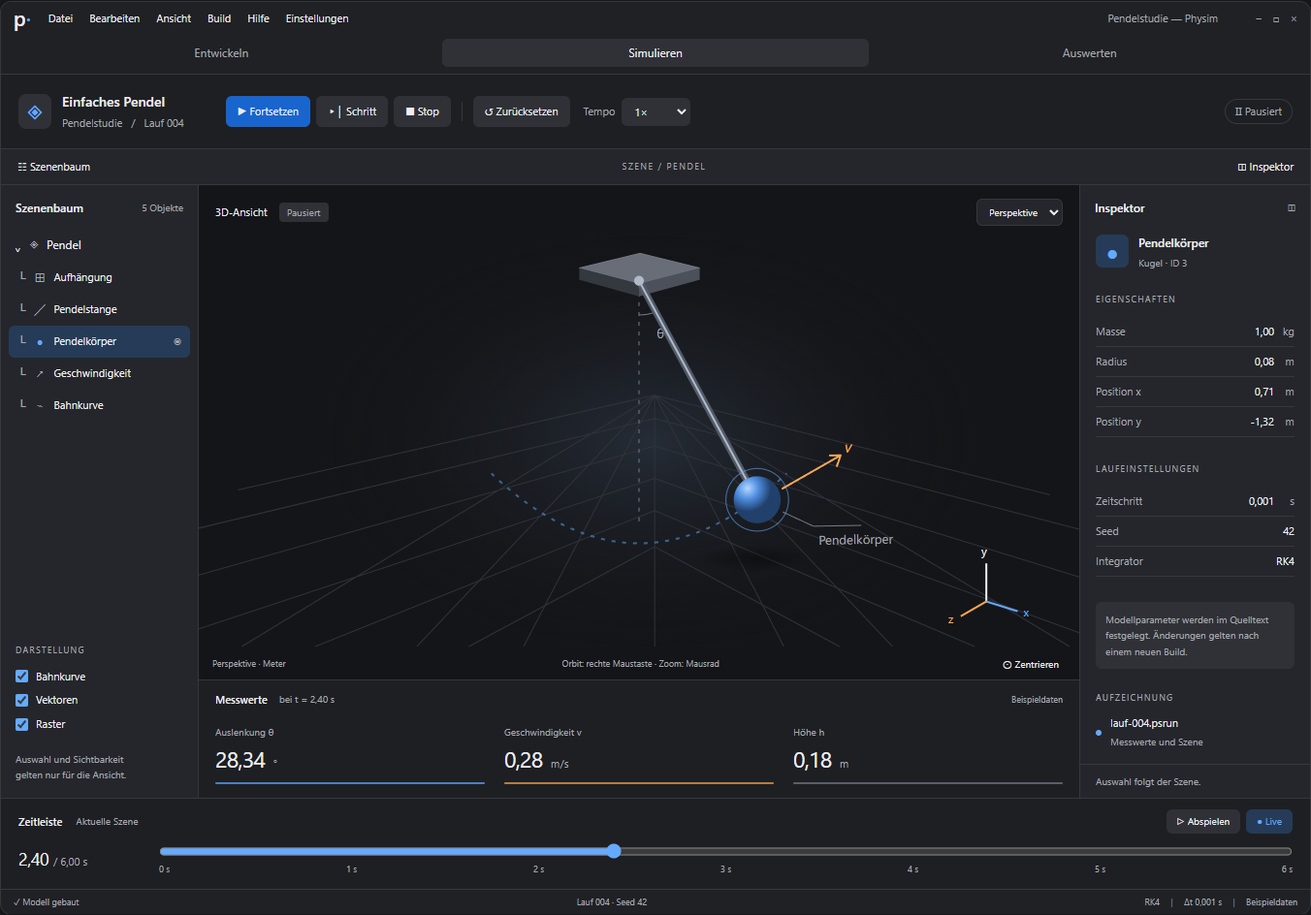
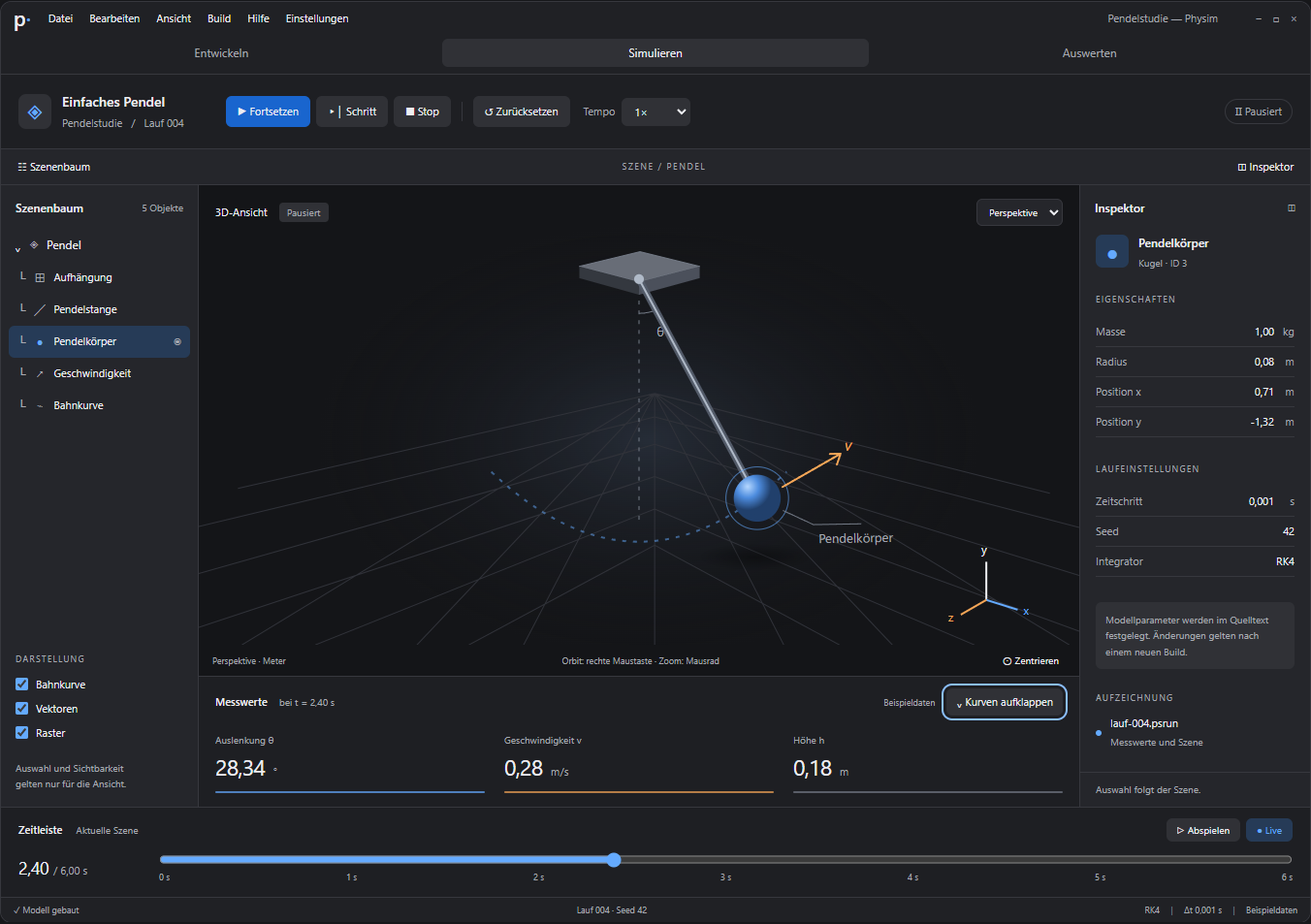
Make simulation design curves collapsible

diff --git a/docs/visuals/simulation-designs/simulation.css b/docs/visuals/simulation-designs/simulation.css
@@ -3,6 +3,11 @@
 :root[data-theme=light]{color-scheme:light;--page:#eef0f4;--window:#f6f7fa;--header:#f2f3f6;--panel:#f3f4f7;--surface:#e5e8ee;--canvas:#e8ebf1;--text:#191e26;--muted:#4e5764;--border:#c4cad4;--accent:#0049a3;--primary:#004ea4;--on-primary:#fff;--selected:#d5e3f5;--grid:#c8cfd9;--axis:#6b7788;--scene-light:#fff;--ball:#3474ca;--ball-highlight:#b1d9ff;--ball-shadow:#1a3e70;--rod:#526071;--rod-highlight:#fff;--support-top:#b0b9c7;--support-side:#707e90;--support-front:#8a97a9;--vector:#914800;--shadow:#586881;--error:#a01b19;--focus:#0049a3}
 *{box-sizing:border-box}body{margin:0;background:var(--page);color:var(--text);font:14px/1.45 "Segoe UI",system-ui,sans-serif}button,select,input{font:inherit}button,select{color:var(--text);background:var(--surface);border:1px solid transparent;border-radius:6px}button{cursor:pointer;padding:7px 11px}button:hover{background:var(--selected)}button:disabled,select:disabled{opacity:.45;cursor:default}button:focus-visible,select:focus-visible,input:focus-visible{outline:2px solid var(--focus);outline-offset:3px}button[aria-pressed=true]{background:var(--selected)}select{padding:5px 8px;max-width:100%}input{accent-color:var(--accent)}[hidden]{display:none!important}main{max-width:1560px;margin:0 auto;padding:44px 44px 28px}.gallery-head{display:flex;justify-content:space-between;align-items:center;gap:28px;margin-bottom:30px}.eyebrow{color:var(--muted);font-size:11px;letter-spacing:2px}h1{font-size:34px;line-height:1.2;font-weight:500;letter-spacing:-1px;margin:10px 0}.gallery-head p{margin:0;color:var(--muted);font-size:15px}.gallery-settings{display:flex;align-items:flex-end;flex-direction:column;gap:14px}.study-label{font-size:12px;color:var(--muted)}.segmented{display:flex;background:var(--window);padding:4px;border:1px solid var(--border);border-radius:8px}.segmented button{background:transparent;padding:5px 15px;font-size:12px}.segmented button[aria-pressed=true]{background:var(--surface)}.variants{display:grid;grid-template-columns:repeat(3,1fr);gap:12px;margin-bottom:26px}.variants>button{border:1px solid var(--border);background:var(--window);display:flex;text-align:left;align-items:center;gap:15px;padding:17px 18px;border-radius:10px;position:relative}.variants>button[aria-pressed=true]{background:var(--selected);border-color:var(--accent)}.variant-number{font-size:13px;color:var(--muted);align-self:flex-start;margin-top:1px}.variants strong{display:block;font-size:16px;font-weight:500}.variants small{display:block;color:var(--muted);font-size:11px;margin-top:5px}.variant-tag{margin-left:auto;font-size:10px;white-space:nowrap;color:var(--muted);display:none}.preview-meta{display:flex;justify-content:space-between;align-items:center;margin-bottom:12px;font-size:12px;color:var(--muted);gap:12px}.preview-meta b{font-weight:500;color:var(--text);margin-right:18px}.preview-meta label{display:flex;align-items:center;gap:10px}.preview-meta select{font-size:12px;background:var(--window);border-color:var(--border)}.app-window{border:1px solid var(--border);border-radius:12px;overflow:hidden;background:var(--window);box-shadow:0 16px 60px #0002}.menu-bar{display:flex;align-items:center;gap:18px;min-height:34px;background:var(--header);padding:0 13px;font-size:11px;position:relative}.app-mark{font-weight:600;font-size:21px;line-height:1}.app-mark>span{color:var(--accent)}.app-menu{display:flex;gap:17px;flex-wrap:wrap}.window-title{margin-left:auto;color:var(--muted);font-size:11px}.window-buttons{margin-left:20px;color:var(--muted)}.workspace-tabs{display:grid;grid-template-columns:repeat(3,1fr);background:var(--header);border-bottom:1px solid var(--border);padding:4px 7px 7px;gap:7px;font-size:12px;text-align:center}.workspace-tabs>span{padding:6px;border-radius:6px;color:var(--muted)}.workspace-tabs .selected{background:var(--surface);color:var(--text)}.experiment-bar{min-height:77px;padding:14px 18px;display:flex;align-items:center;gap:24px;border-bottom:1px solid var(--border);flex-wrap:wrap}.experiment-name{display:flex;align-items:center;gap:11px;min-width:190px}.experiment-icon{width:34px;height:36px;background:var(--surface);border-radius:8px;display:grid;place-items:center;font-size:22px;color:var(--accent)}.experiment-name strong{font-weight:500;font-size:14px}.experiment-name small{display:block;font-size:11px;color:var(--muted);margin-top:3px}.experiment-name small span{padding:0 6px}.transport{display:flex;align-items:center;gap:6px;flex-wrap:wrap}.transport button{font-size:11px;min-height:31px;white-space:nowrap}.primary{background:var(--primary)!important;color:var(--on-primary)!important}.primary:hover{filter:brightness(1.12)}.toolbar-divider{height:20px;width:1px;background:var(--border);margin:0 5px}.speed-label{display:flex;gap:7px;align-items:center;color:var(--muted);font-size:11px;margin-left:8px}.speed-label select{font-size:11px;min-width:60px}.run-status{font-size:11px;margin-left:auto;color:var(--muted);white-space:nowrap;border:1px solid var(--border);border-radius:20px;padding:4px 10px}.panel-toolbar{display:flex;justify-content:space-between;align-items:center;min-height:37px;border-bottom:1px solid var(--border);padding:3px 9px;background:var(--panel)}.panel-toolbar button{font-size:11px;background:transparent;padding:4px 7px}.context-label{font-size:9px;letter-spacing:1.5px;color:var(--muted)}.workspace{display:grid;grid-template-columns:204px minmax(0,1fr) 238px;min-height:475px}.scene-tree{grid-column:1;grid-row:1;background:var(--panel);border-right:1px solid var(--border);display:flex;flex-direction:column;min-width:0}.pane-heading{display:flex;align-items:center;justify-content:space-between;font-size:12px;font-weight:500;padding:15px 15px 13px}.pane-heading>span{color:var(--muted);font-size:10px;font-weight:400}.tree-items{padding:0 8px}.tree-root{display:flex;gap:8px;align-items:center;padding:8px 6px;font-size:12px}.tree-root>span{color:var(--muted)}.tree-row{font-size:11px;background:transparent;display:flex;gap:8px;align-items:center;text-align:left;min-height:33px;width:100%;padding:6px 8px}.tree-row>span:first-child{color:var(--muted);font-size:12px}.tree-row.active{background:var(--selected)}.object-icon{width:13px;text-align:center;color:var(--muted)}.tree-row.active .object-icon{color:var(--accent)}.tree-visible{margin-left:auto;font-size:10px;color:var(--muted)}.tree-bottom{margin-top:auto;padding:22px 15px 16px}.section-label{color:var(--muted);font-size:9px;letter-spacing:1.2px;margin-bottom:12px}.tree-bottom label{display:flex;gap:8px;align-items:center;font-size:11px;margin:9px 0}.tree-bottom input{margin:0;width:13px;height:13px}.tree-note{color:var(--muted);font-size:10px;line-height:1.6;margin-top:20px}.scene-column{grid-column:2;grid-row:1;min-width:0;display:flex;flex-direction:column}.scene{position:relative;background:var(--canvas);min-height:365px;flex:1;overflow:hidden;display:flex;flex-direction:column}.scene-top{display:flex;justify-content:space-between;align-items:center;padding:14px 17px;position:absolute;left:0;right:0;top:0;z-index:1}.scene-top>div{display:flex;gap:12px;align-items:center}.scene-label{font-size:11px}.scene-state{font-size:10px;color:var(--muted);padding:3px 8px;border-radius:4px;background:var(--surface)}.scene-top select{font-size:10px;background:var(--panel);border:1px solid var(--border)}.physics-scene{display:block;width:100%;height:100%;min-height:320px;flex:1;max-height:480px}.svg-annotation{font-size:13px;fill:var(--muted);font-family:inherit}.svg-vector{font-size:16px;fill:var(--vector);font-style:italic}.axis-label{font-size:12px;font-family:inherit}.scene-bottom{display:flex;gap:14px;align-items:center;justify-content:space-between;min-height:32px;padding:4px 14px;color:var(--muted);font-size:9px}.scene-bottom button{font-size:10px;padding:3px 6px;background:transparent}.scene-hint{font-size:9px}.focus-note{display:none;position:absolute;top:80px;left:27px;z-index:1}.focus-note .section-label{margin-bottom:6px}.focus-note strong{font-weight:500;display:block;font-size:16px}.focus-note>span{display:block;font-size:11px;color:var(--muted);margin-top:5px}.inspector{grid-column:3;grid-row:1;background:var(--panel);border-left:1px solid var(--border);display:flex;flex-direction:column;min-width:0}.inspector-body{padding:4px 16px 15px}.object-heading{display:flex;align-items:center;gap:10px;margin-bottom:24px}.object-avatar{display:grid;place-items:center;width:34px;height:34px;border-radius:7px;background:var(--selected);color:var(--accent);font-size:21px}.object-heading strong{font-weight:500;font-size:12px}.object-heading small{display:block;color:var(--muted);font-size:10px;margin-top:3px}.properties{margin:0 0 26px;font-size:11px}.properties>div{display:flex;align-items:center;justify-content:space-between;padding:7px 0;border-bottom:1px solid var(--border);gap:10px}.properties dt{color:var(--muted)}.properties dd{margin:0;font-variant-numeric:tabular-nums}.properties dd span{color:var(--muted);display:inline-block;min-width:14px;text-align:right;margin-left:4px}.inspector-notice{font-size:10px;color:var(--muted);line-height:1.65;background:var(--surface);border-radius:6px;padding:10px}.recording-label{margin-top:23px}.recording{display:flex;gap:9px;align-items:center;font-size:11px}.recording strong{font-weight:400}.recording small{display:block;color:var(--muted);font-size:10px;margin-top:4px}.record-dot{width:6px;height:6px;background:var(--accent);border-radius:50%}.inspector-footer{margin-top:auto;font-size:10px;color:var(--muted);padding:10px 16px;border-top:1px solid var(--border)}.measurements{border-top:1px solid var(--border);padding:12px 17px 14px;background:var(--window)}.measure-heading{display:flex;gap:12px;align-items:center;font-size:10px;color:var(--muted);margin-bottom:14px}.measure-heading strong{color:var(--text);font-weight:500;font-size:11px}.sample-badge{margin-left:auto;font-size:9px}.metric-grid{display:grid;grid-template-columns:repeat(3,1fr);gap:20px}.metric-grid>div{min-width:0}.metric-grid>div>span{font-size:10px;color:var(--muted)}.metric-grid strong{font-size:23px;font-weight:400;display:block;margin-top:2px;letter-spacing:-.7px;font-variant-numeric:tabular-nums;white-space:nowrap}.metric-grid strong small{font-size:11px;color:var(--muted);letter-spacing:0;margin-left:3px}.metric-line{height:2px;margin-top:8px;border-radius:2px;opacity:.7}.blue{background:var(--accent)}.amber{background:var(--vector)}.neutral{background:var(--axis)}.charts{display:none;grid-template-columns:1fr 1fr;gap:26px;margin-top:22px}.chart{min-width:0}.chart-label{display:flex;justify-content:space-between;font-size:10px;margin-bottom:9px}.chart-label>span:last-child{color:var(--muted)}.chart svg{width:100%;display:block;overflow:visible}.chart-grid path{stroke:var(--border);fill:none}.chart-axis{fill:var(--muted);font:10px "Segoe UI",sans-serif}.curve{stroke:var(--accent);fill:none;stroke-width:2}.amber-curve{stroke:var(--vector)}.chart-cursor{stroke:var(--muted);stroke-width:1;stroke-dasharray:3 3}.timeline{border-top:1px solid var(--border);padding:11px 18px 14px;background:var(--window)}.timeline-heading{display:flex;align-items:center;gap:14px;font-size:10px}.timeline-heading strong{font-size:11px;font-weight:500}.history-label{color:var(--muted)}.timeline-controls{margin-left:auto;display:flex;gap:6px}.timeline-controls button{font-size:10px;padding:4px 10px;background:var(--surface)}.timeline-controls button[aria-pressed=true]{background:var(--selected);color:var(--accent)}.timeline-track{display:flex;gap:25px;align-items:center;margin-top:10px}.timeline output{min-width:120px;font-size:18px;letter-spacing:-.4px;font-variant-numeric:tabular-nums}.timeline output span{font-size:11px;color:var(--muted);letter-spacing:0}.time-slider{flex:1;min-width:0}.time-slider input{display:block;width:100%;height:17px;margin:0}.time-ticks{display:flex;justify-content:space-between;font-size:9px;color:var(--muted);margin-top:3px}.app-status{display:flex;justify-content:space-between;gap:12px;padding:6px 13px;background:var(--header);border-top:1px solid var(--border);font-size:9px;color:var(--muted);flex-wrap:wrap}.status-separator{padding:0 9px;color:var(--axis)}.design-note{display:flex;gap:18px;align-items:flex-start;margin-top:22px;padding-bottom:10px}.design-note>span:first-child{font-size:24px;color:var(--muted);font-weight:300}.design-note strong{font-size:14px;font-weight:500}.design-note p{color:var(--muted);font-size:12px;margin:6px 0 0;max-width:720px;line-height:1.7}.note-foot{margin-left:auto;font-size:10px;color:var(--muted);text-align:right;line-height:1.7;white-space:nowrap}.state-overlay{position:absolute;inset:0;z-index:3;background:var(--canvas);display:flex;align-items:center;justify-content:center;flex-direction:column;padding:24px;text-align:center}.empty-symbol{font-size:38px;color:var(--accent);margin-bottom:8px}.state-overlay h2{font-size:23px;font-weight:500;letter-spacing:-.5px;margin:6px 0}.state-overlay p{max-width:350px;color:var(--muted);font-size:12px;line-height:1.7;margin:8px 0 20px}.state-overlay.error .empty-symbol{color:var(--error)}.state-overlay button{font-size:12px}.app-window[data-design=labor] .workspace{grid-template-columns:178px minmax(0,1fr) 238px}.app-window[data-design=labor] .scene{min-height:270px}.app-window[data-design=labor] .physics-scene{min-height:250px;max-height:320px}.app-window[data-design=labor] .charts{display:grid}.app-window[data-design=labor] .measurements{padding-top:15px;padding-bottom:16px}.app-window[data-design=focus] .workspace{grid-template-columns:0 minmax(0,1fr) 0}.app-window[data-design=focus] .scene{min-height:465px}.app-window[data-design=focus] .physics-scene{min-height:440px;max-height:500px}.app-window[data-design=focus] .focus-note{display:block}.app-window[data-design=focus] .measurements{padding:12px 28px 16px}.app-window[data-design=focus] .metric-grid{max-width:650px;gap:55px}.app-window[data-design=focus] .metric-grid strong{font-size:25px}.app-window.tree-closed .workspace{grid-template-columns:0 minmax(0,1fr) 238px}.app-window.inspector-closed .workspace{grid-template-columns:204px minmax(0,1fr) 0}.app-window.tree-closed.inspector-closed .workspace{grid-template-columns:0 minmax(0,1fr) 0}.app-window[data-design=focus]:not(.tree-closed) .workspace{grid-template-columns:204px minmax(0,1fr) 0}.app-window[data-design=focus]:not(.inspector-closed) .workspace{grid-template-columns:0 minmax(0,1fr) 238px}.app-window[data-design=focus]:not(.tree-closed):not(.inspector-closed) .workspace{grid-template-columns:204px minmax(0,1fr) 238px}.app-window.tree-closed .scene-tree,.app-window.inspector-closed .inspector{display:none}.app-window[data-state=empty] .measurements,.app-window[data-state=error] .measurements{visibility:hidden}.app-window[data-state=empty] .scene-hint,.app-window[data-state=error] .scene-hint{visibility:hidden}
 .tree-row{overflow-wrap:anywhere;white-space:normal}.object-icon{flex-shrink:0}
+.app-window .charts:not([hidden]){display:grid}
+.measure-heading{flex-wrap:wrap}.measure-heading #curves-toggle{font-size:11px;padding:5px 9px;margin-left:auto;white-space:normal}.measure-heading .sample-badge{margin-left:auto}.measure-heading .sample-badge + #curves-toggle{margin-left:0}
+.app-window[data-design=studio].curves-open .scene{min-height:270px}.app-window[data-design=studio].curves-open .physics-scene{min-height:250px;max-height:320px}
+.app-window[data-design=labor]:not(.curves-open) .scene{min-height:365px}.app-window[data-design=labor]:not(.curves-open) .physics-scene{min-height:320px;max-height:480px}
+@media(min-width:651px){.app-window[data-design=studio] .scene-column,.app-window[data-design=labor] .scene-column{min-height:634px}}
 .app-window[data-state=empty] .tree-items,.app-window[data-state=empty] .tree-bottom,.app-window[data-state=empty] .inspector-body,.app-window[data-state=empty] .focus-note{display:none}.app-window[data-state=empty] .scene-tree::after,.app-window[data-state=empty] .inspector::after{content:'Kein Modell geladen.';font-size:11px;color:var(--muted);padding:15px}.app-window[data-state=empty] .scene-tree .pane-heading>span{visibility:hidden}.app-window[data-state=empty] .experiment-name small{visibility:hidden}
 @media(min-width:1500px){.variant-tag{display:block}}
 @media(max-width:1150px){main{padding:26px 22px}.workspace,.app-window[data-design=labor] .workspace{grid-template-columns:175px minmax(0,1fr) 210px}.variants>button{padding:13px 12px;gap:10px}.variants small{max-width:220px}.scene-hint{display:none}.transport{gap:4px}.experiment-bar{gap:14px}.transport button{padding:6px 8px}.window-title{display:none}.inspector-body{padding:4px 12px 12px}.pane-heading{padding:13px 12px}.scene-top{padding:12px}.metric-grid{gap:12px}.metric-grid strong{font-size:21px}.app-window.inspector-closed .workspace{grid-template-columns:175px minmax(0,1fr) 0}.app-window.tree-closed .workspace{grid-template-columns:0 minmax(0,1fr) 210px}.app-window.tree-closed.inspector-closed .workspace{grid-template-columns:0 minmax(0,1fr) 0}.app-window[data-design=focus]:not(.tree-closed) .workspace{grid-template-columns:175px minmax(0,1fr) 0}.app-window[data-design=focus]:not(.inspector-closed) .workspace{grid-template-columns:0 minmax(0,1fr) 210px}.app-window[data-design=focus]:not(.tree-closed):not(.inspector-closed) .workspace{grid-template-columns:175px minmax(0,1fr) 210px}.context-label{display:none}}

diff --git a/docs/visuals/simulation-designs/index.html b/docs/visuals/simulation-designs/index.html
@@ -43,7 +43,7 @@
           <div class="scene-bottom"><span id="view-label">Perspektive · Meter</span><span class="scene-hint">Orbit: rechte Maustaste · Zoom: Mausrad</span><button id="camera-reset" aria-label="Kamera auf Standardansicht zurücksetzen">⊙ Zentrieren</button></div>
           <div class="state-overlay" id="state-overlay" hidden><span class="empty-symbol">◈</span><h2 id="overlay-title">Dein nächstes Experiment.</h2><p id="overlay-message">Öffne einen Projektordner, um dein Modell zu simulieren.</p><button id="overlay-action" class="primary">Beispiel anzeigen</button></div>
         </div>
-        <div class="measurements" id="measurements"><div class="measure-heading"><strong>Messwerte</strong><span id="measurement-time">bei t = 2,40 s</span><span class="sample-badge">Beispieldaten</span></div><div class="metric-grid"><div><span>Auslenkung θ</span><strong id="angle-value">27,37 <small>°</small></strong><div class="metric-line blue"></div></div><div><span>Geschwindigkeit v</span><strong id="velocity-value">0,00 <small>m/s</small></strong><div class="metric-line amber"></div></div><div><span>Höhe h</span><strong id="height-value">0,17 <small>m</small></strong><div class="metric-line neutral"></div></div></div><div class="charts"><div class="chart"><div class="chart-label"><span>Auslenkung</span><span>θ / °</span></div><svg viewBox="0 0 460 114" role="img" aria-label="Beispielverlauf der Auslenkung über 6 Sekunden"><g class="chart-grid"><path d="M32 16H448M32 52H448M32 88H448"/></g><g class="chart-axis"><text x="0" y="20">30</text><text x="8" y="56">0</text><text x="0" y="92">−30</text><text x="32" y="110">0</text><text x="230" y="110">3</text><text x="421" y="110">6 s</text></g><path id="angle-curve" class="curve"/><line class="chart-cursor" x1="198" x2="198" y1="12" y2="91"/></svg></div><div class="chart"><div class="chart-label"><span>Geschwindigkeit</span><span>v / m/s</span></div><svg viewBox="0 0 460 114" role="img" aria-label="Beispielverlauf der Geschwindigkeit über 6 Sekunden"><g class="chart-grid"><path d="M32 16H448M32 52H448M32 88H448"/></g><g class="chart-axis"><text x="0" y="20">1,9</text><text x="8" y="56">0</text><text x="0" y="92">−1,9</text><text x="32" y="110">0</text><text x="230" y="110">3</text><text x="421" y="110">6 s</text></g><path id="velocity-curve" class="curve amber-curve"/><line class="chart-cursor" x1="198" x2="198" y1="12" y2="91"/></svg></div></div></div>
+        <div class="measurements" id="measurements"><div class="measure-heading"><strong>Messwerte</strong><span id="measurement-time">bei t = 2,40 s</span><span class="sample-badge">Beispieldaten</span><button id="curves-toggle" type="button" aria-expanded="false" aria-controls="curves">⌄ Kurven aufklappen</button></div><div class="metric-grid"><div><span>Auslenkung θ</span><strong id="angle-value">27,37 <small>°</small></strong><div class="metric-line blue"></div></div><div><span>Geschwindigkeit v</span><strong id="velocity-value">0,00 <small>m/s</small></strong><div class="metric-line amber"></div></div><div><span>Höhe h</span><strong id="height-value">0,17 <small>m</small></strong><div class="metric-line neutral"></div></div></div><div class="charts" id="curves" hidden><div class="chart"><div class="chart-label"><span>Auslenkung</span><span>θ / °</span></div><svg viewBox="0 0 460 114" role="img" aria-label="Beispielverlauf der Auslenkung über 6 Sekunden"><g class="chart-grid"><path d="M32 16H448M32 52H448M32 88H448"/></g><g class="chart-axis"><text x="0" y="20">30</text><text x="8" y="56">0</text><text x="0" y="92">−30</text><text x="32" y="110">0</text><text x="230" y="110">3</text><text x="421" y="110">6 s</text></g><path id="angle-curve" class="curve"/><line class="chart-cursor" x1="198" x2="198" y1="12" y2="91"/></svg></div><div class="chart"><div class="chart-label"><span>Geschwindigkeit</span><span>v / m/s</span></div><svg viewBox="0 0 460 114" role="img" aria-label="Beispielverlauf der Geschwindigkeit über 6 Sekunden"><g class="chart-grid"><path d="M32 16H448M32 52H448M32 88H448"/></g><g class="chart-axis"><text x="0" y="20">1,9</text><text x="8" y="56">0</text><text x="0" y="92">−1,9</text><text x="32" y="110">0</text><text x="230" y="110">3</text><text x="421" y="110">6 s</text></g><path id="velocity-curve" class="curve amber-curve"/><line class="chart-cursor" x1="198" x2="198" y1="12" y2="91"/></svg></div></div></div>
       </div>
       <aside id="inspector" class="inspector"><div class="pane-heading">Inspektor <span>◫</span></div><div class="inspector-body"><div class="object-heading"><div class="object-avatar">●</div><div><strong class="selected-name">Pendelkörper</strong><small id="selected-type">Kugel · ID 3</small></div></div><div class="section-label">EIGENSCHAFTEN</div><dl class="properties" id="object-properties"><div><dt>Masse</dt><dd>1,00 <span>kg</span></dd></div><div><dt>Radius</dt><dd>0,08 <span>m</span></dd></div><div><dt>Position x</dt><dd id="position-value">0,69 <span>m</span></dd></div><div><dt>Position y</dt><dd id="position-y">−1,33 <span>m</span></dd></div></dl><div class="section-label">LAUFEINSTELLUNGEN</div><dl class="properties"><div><dt>Zeitschritt</dt><dd>0,001 <span>s</span></dd></div><div><dt>Seed</dt><dd>42</dd></div><div><dt>Integrator</dt><dd>RK4</dd></div></dl><div class="inspector-notice">Modellparameter werden im Quelltext festgelegt. Änderungen gelten nach einem neuen Build.</div><div class="section-label recording-label">AUFZEICHNUNG</div><div class="recording"><span class="record-dot"></span><div><strong>lauf-004.psrun</strong><small>Messwerte und Szene</small></div></div></div><div class="inspector-footer">Auswahl folgt der Szene.</div></aside>
     </div>

diff --git a/docs/visuals/simulation-designs/simulation.js b/docs/visuals/simulation-designs/simulation.js
@@ -4,20 +4,29 @@
   const $ = id => document.getElementById(id);
   const app = document.querySelector('.app-window');
   const descriptions = {
-    studio: ['01 / Studio','Ein vertrauter Arbeitsraum für Modell und Bewegung.','Alles an seinem Platz.','Links die Szenenstruktur, rechts der ausgewählte Körper. Die große Mitte gehört dem Experiment; Messwerte und Zeitleiste bleiben direkt darunter.'],
-    labor: ['02 / Messlabor','Bewegung und Messwerte in einem gemeinsamen Blick.','Sehen, was die Bewegung bedeutet.','Die kompaktere Szene schafft Platz für zwei direkte Signalverläufe. Ein gemeinsamer Zeitzeiger verbindet Auslenkung, Geschwindigkeit und den betrachteten Szenenzustand.'],
+    studio: ['01 / Studio','Ein vertrauter Arbeitsraum für Modell und Bewegung.','Alles an seinem Platz.','Links die Szenenstruktur, rechts der ausgewählte Körper. Kurven lassen sich bei Bedarf direkt unter den Messwerten aufklappen; zugeklappt erhält die Szene mehr Platz.'],
+    labor: ['02 / Messlabor','Bewegung und Messwerte in einem gemeinsamen Blick.','Sehen, was die Bewegung bedeutet.','Zwei Signalverläufe verbinden Messwerte und Szene über einen gemeinsamen Zeitzeiger. Die Kurven lassen sich zuklappen, um der Szene mehr Raum zu geben.'],
     focus: ['03 / Fokus','Mehr Raum für die Szene, Details genau bei Bedarf.','Das Experiment im Mittelpunkt.','Beide Seiten sind zunächst eingeklappt. Auswahl, Messwerte und Zeit bleiben sichtbar; Szenenbaum und Inspektor lassen sich unabhängig wieder einblenden.']
   };
   const objects = {mass:['Pendelkörper','Kugel · ID 3'],support:['Aufhängung','Box · ID 1'],rod:['Pendelstange','Linie · ID 2'],velocity:['Geschwindigkeit','Vektor · ID 4'],trail:['Bahnkurve','Pfad · ID 5']};
   let mode='paused', time=2.4, liveTime=2.4, browsing=false, replay=false, selected='mass', last=0;
+  const curvesByDesign={studio:false,labor:true,focus:false};
   const fmt = (n,d=2) => n.toLocaleString('de-DE',{minimumFractionDigits:d,maximumFractionDigits:d});
   const angle = t => .5*Math.cos(Math.sqrt(9.81/1.5)*t);
   const speed = t => -1.5*.5*Math.sqrt(9.81/1.5)*Math.sin(Math.sqrt(9.81/1.5)*t);
   function panels() {
     for(const [id,cls] of [['tree','tree-closed'],['inspector','inspector-closed']]) $(id+'-toggle').setAttribute('aria-expanded',String(!app.classList.contains(cls)));
   }
+  function curves() {
+    const open=curvesByDesign[app.dataset.design];
+    $('curves').hidden=!open;
+    app.classList.toggle('curves-open',open);
+    $('curves-toggle').setAttribute('aria-expanded',String(open));
+    $('curves-toggle').textContent=open?'⌃ Kurven zuklappen':'⌄ Kurven aufklappen';
+  }
   function design(value) {
     app.dataset.design=value;
+    curves();
     document.querySelectorAll('.variants [data-design]').forEach(b=>b.setAttribute('aria-pressed',String(b.dataset.design===value)));
     app.classList.toggle('tree-closed',value==='focus');app.classList.toggle('inspector-closed',value==='focus');panels();
     const [caption,description,title,note]=descriptions[value];
@@ -63,6 +72,7 @@
   document.querySelectorAll('.variants [data-design]').forEach(b=>b.addEventListener('click',()=>design(b.dataset.design)));
   document.querySelectorAll('.segmented [data-theme]').forEach(b=>b.addEventListener('click',()=>{document.documentElement.dataset.theme=b.dataset.theme;document.querySelectorAll('.segmented [data-theme]').forEach(c=>c.setAttribute('aria-pressed',String(c===b)));}));
   $('tree-toggle').addEventListener('click',()=>{app.classList.toggle('tree-closed');panels();});$('inspector-toggle').addEventListener('click',()=>{app.classList.toggle('inspector-closed');panels();});
+  $('curves-toggle').addEventListener('click',()=>{curvesByDesign[app.dataset.design]=!curvesByDesign[app.dataset.design];curves();});
   document.querySelectorAll('[data-object]').forEach(b=>b.addEventListener('click',()=>object(b.dataset.object)));
   for(const [id,target] of [['show-trail','trail'],['show-vectors','velocity'],['show-grid','floor-grid']]) $(id).addEventListener('change',()=>{(target==='floor-grid'?document.querySelector('.floor-grid'):$(target)).style.visibility=$(id).checked?'visible':'hidden';});
   $('state-select').addEventListener('change',()=>{mode=$('state-select').value;replay=false;browsing=false;if(mode==='ready'){time=0;liveTime=0;}status();render();});

diff --git a/docs/visuals/simulation-designs/DESIGN.md b/docs/visuals/simulation-designs/DESIGN.md
@@ -1,6 +1,6 @@
 # Entwürfe für den Arbeitsbereich Simulieren
 
-Stand 16. Oktober 2026. Vorschläge zur Auswahl, keine neue verbindliche
+Stand 19. Oktober 2026; erste Entwürfe vom 16. Oktober. Vorschläge zur Auswahl, keine neue verbindliche
 Produktentscheidung. Verantwortlich für diesen Entwurf: UI/UX-Design.
 
 ## Gemeinsamer Rahmen
@@ -31,8 +31,8 @@ bei den tatsächlich gewählten Schriftgrößen.
 
 | Variante | Aufbau bei 1440 px Browserbreite | Zweck und Abwägung |
 | --- | --- | --- |
-| 01 Studio | Szenenbaum 204 px, flexible Szene, Inspektor 238 px; drei Messwerte und Zeitleiste unten | Allgemeiner Arbeitsraum. Direkter Objektzugriff und Eigenschaften; Signalverläufe bleiben der Auswertung bzw. Messlabor vorbehalten. |
-| 02 Messlabor | Baum 178 px, kompaktere Szene, Inspektor 238 px; Messwerte und zwei Signalverläufe unter der Szene | Zusammenhänge von Bewegung und Signalen beobachten. Weniger Höhe für die Szene. |
+| 01 Studio | Szenenbaum 204 px, flexible Szene, Inspektor 238 px; drei Messwerte und Zeitleiste unten; Kurven zunächst zugeklappt | Allgemeiner Arbeitsraum. Die beiden Signalverläufe können direkt unter den Messwerten aufgeklappt werden. |
+| 02 Messlabor | Baum 178 px, kompaktere Szene, Inspektor 238 px; Messwerte und zunächst aufgeklappte Signalverläufe unter der Szene | Zusammenhänge von Bewegung und Signalen beobachten. Kurven zuklappen vergrößert die Szene. |
 | 03 Fokus | Beide Seiten zunächst geschlossen; große Szene, Auswahlkontext oben links; kompakte Messwerte unten | Bewegung und räumliche Orientierung priorisieren. Struktur und Details benötigen bei Bedarf einen Klick. |
 
 Alle Varianten zeigen dasselbe Beispiel und dieselbe Zeitbasis. Die separaten
@@ -50,6 +50,17 @@ Messlabor-Zusammenstellung aus Szene und zwei Kurven ist ein Layoutvorschlag;
 ihre native gemeinsame Darstellung ist hier nicht implementiert.
 
 ## Interaktions- und Zustandsvertrag
+
+Ergänzung vom 19. Oktober auf Nutzerwunsch: In der Messwertleiste sitzt dauerhaft
+eine beschriftete Schaltfläche **Kurven aufklappen / Kurven zuklappen** mit
+Richtungspfeil. Sie steuert beide Diagramme gemeinsam, ist per Enter/Leertaste
+bedienbar und meldet ihren Zustand über `aria-expanded` und `aria-controls`.
+Messwerte und Zeitleiste bleiben sichtbar. Beim Zuklappen erhält die Szene in
+Studio und Messlabor mehr Höhe. Die Auswahl pro Variante bleibt während dieser
+Vorschau beim Varianten- und Themewechsel erhalten; eine Speicherung über einen
+Neustart ist nicht vorgesehen. Die gemeinsame Leiste bietet dieselbe Aktion
+auch in Fokus, dort zunächst zugeklappt. Zeit, Lauf, Objektwahl und Seitenzustände
+werden durch das Auf-/Zuklappen nicht verändert.
 
 | Zustand / Aktion | Sichtbare Rückmeldung und Verhalten |
 | --- | --- |
@@ -72,6 +83,16 @@ Galerie bildet nur ihren Ort ab. Auch F5/F7 und vorhandene Shortcuts werden
 hier nicht neu definiert. Keine globalen Browser-Tastenkürzel abfangen.
 
 ## Prüfung und Grenzen
+
+Ergänzungsprüfung am 19. Oktober 2026 mit Edge 155.0.4283.62:
+`node tools/check_simulation_designs.cjs --export`, Exitcode 0. Die bisherigen
+24 Layoutfälle und sechs Interaktionsdurchläufe bestehen weiterhin. Zusätzlich
+16 Kurvenfälle für Studio/Messlabor × Hell/Dunkel × vier Fensterbreiten:
+Enter/Leertaste, sichtbarer und zugänglicher Aufklappzustand, unveränderte Zeit
+und Seitenzustände sowie Erhalt beim Varianten-/Themewechsel bestanden.
+Bei Desktopbreiten ist die Szene mit geschlossenen Kurven nachweislich höher.
+Keine JavaScriptfehler; die neuen offenen/geschlossenen Referenzbilder wurden
+visuell geprüft. Die folgende ursprüngliche Abnahme bleibt datiert erhalten.
 
 Ausgeführt auf Windows mit Edge 155.0.4283.45, Node/Playwright/Sharp, lokaler
 `file:`-Vorschau; Referenzbilder bei 1440 px Browserbreite und Geräteskalierung 1.

diff --git a/docs/visuals/simulation-designs/README.md b/docs/visuals/simulation-designs/README.md
@@ -18,6 +18,15 @@ Die Auswahl oben schaltet das Layout, daneben lassen sich Theme und Laufzustand
 wechseln. Innerhalb der Vorschau sind Seitenbereiche, Objektauswahl, Sichtbarkeit,
 Laufsteuerung, Tempo, Kameraansichten und Zeitleiste bedienbar.
 
+**Ergänzt am 19. Oktober:** Über **Kurven aufklappen / Kurven zuklappen** in der
+Messwertleiste sind die beiden Signalverläufe ein- und ausblendbar. Studio startet
+zugeklappt, Messlabor aufgeklappt. Beim Zuklappen wächst die Szene; die Messwerte
+und Zeitleiste bleiben sichtbar. Der Zustand wird pro Variante für diese Sitzung
+behalten. Vergleichszustände: Studio aufgeklappt
+([Dunkel](studio-dark-curves-open.png), [Hell](studio-light-curves-open.png)) und
+Messlabor zugeklappt ([Dunkel](labor-dark-curves-closed.png),
+[Hell](labor-light-curves-closed.png)).
+
 Die Pendelbewegung und Kurven sind illustrative Beispieldaten aus einer
 Kleinwinkelnäherung mit l = 1,50 m, m = 1,00 kg und θ₀ = 0,50 rad. Die Zeit läuft
 in der Vorschau von 0 bis 6 s. Der native Runner, echte Laufdateien, Kamerainteraktion
@@ -42,6 +51,6 @@ erneuert. Unter Windows verwendet der Prüfer Edge; `PHYSIM_BROWSER` kann einen
 anderen Browserpfad angeben. Andere Systeme benötigen ein verfügbares Chromium.
 Das ist keine Aussage über bereits ausgeführte Linux-/macOS-Prüfungen.
 
-Die sechs gelieferten Screenshots und die Übersicht bleiben als Designreferenzen
+Die zehn gelieferten Screenshots und die Übersicht bleiben als Designreferenzen
 versioniert. Temporäre erfolgreiche Browserbilder unter `build/` werden nach
 visueller Abnahme entfernt; offene Fehlerbelege würden erhalten bleiben.
